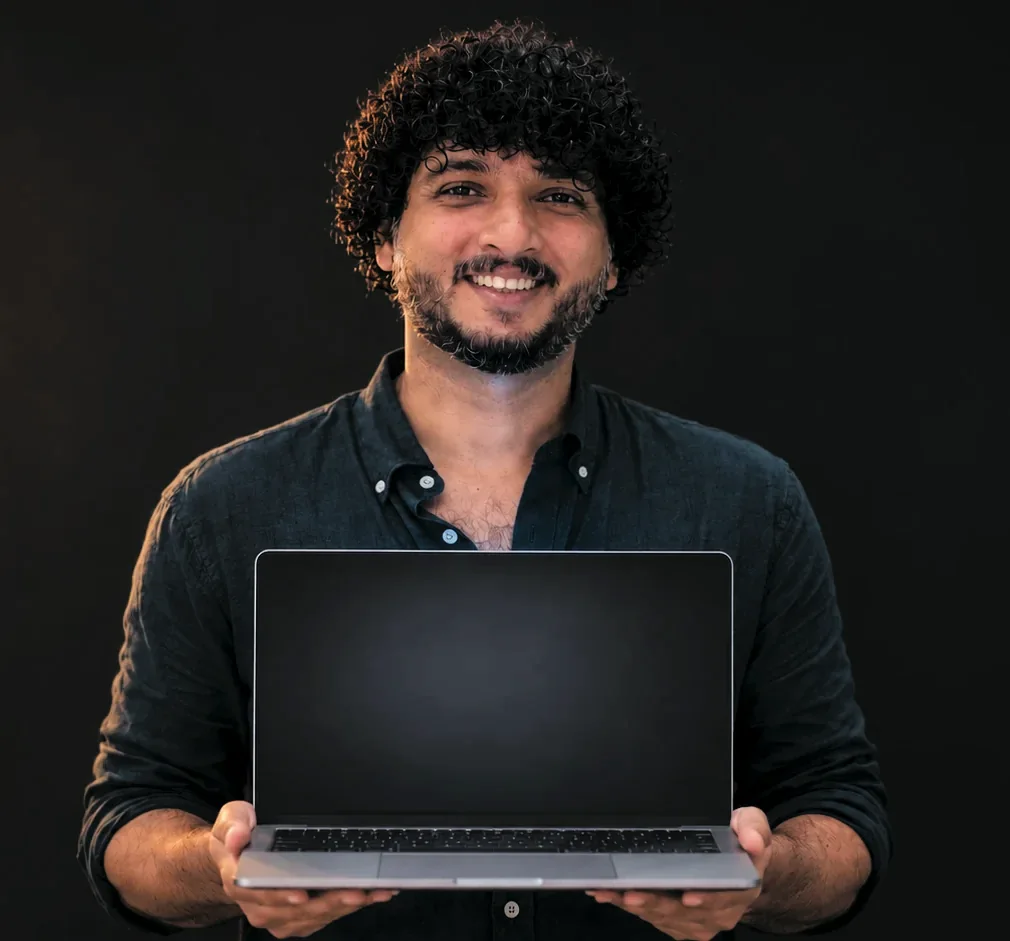
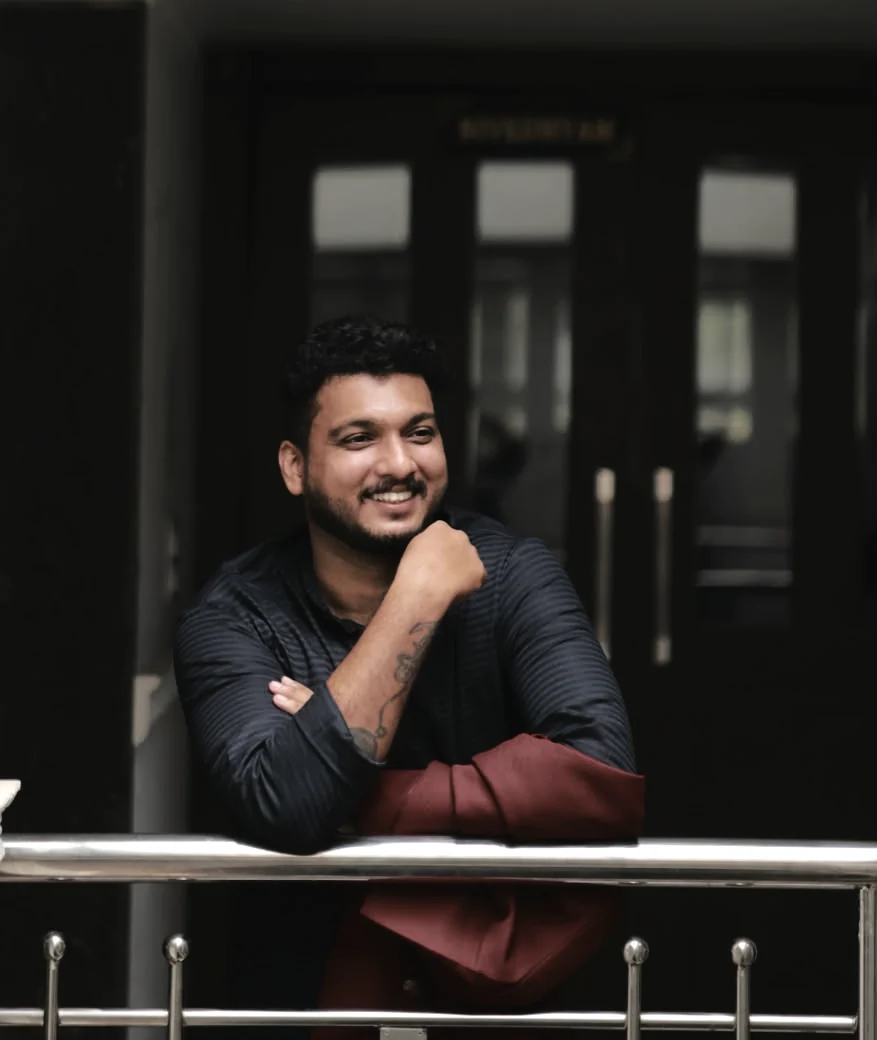
New hero photo (balcony shot) and candid photo on the Incubateer page
Hero uses a real photo, colour-graded so the dark doors sink into the
page and the red jacket is toned down. The laughing window shot sits
next to 'Why I'm building it'. Share image updated to match.

Claude-Session: https://claude.ai/code/session_01GbPnNpFcowgaRwAoicUqBo

diff --git a/styles.css b/styles.css
@@ -145,7 +145,7 @@ body::after {
   mask-image: linear-gradient(to right, transparent 0%, #000 34%), linear-gradient(to top, transparent 0%, #000 30%);
   mask-composite: intersect;
 }
-.hero__photo img { width: 100%; height: 100%; object-fit: cover; object-position: 50% 18%; will-change: transform; }
+.hero__photo img { width: 100%; height: 100%; object-fit: cover; object-position: 45% 35%; will-change: transform; }
 .hero__intro { position: absolute; inset: 0; pointer-events: none; }
 .hero__intro a { pointer-events: auto; }
 .hero__kicker { position: absolute; left: var(--gutter); top: 84px; margin: 0; font-size: 14px; line-height: 1.35; }
@@ -187,7 +187,7 @@ body::after {
     left: 0; width: auto; bottom: auto; height: 72%;
     -webkit-mask-image: linear-gradient(to top, transparent 0%, #000 40%); mask-image: linear-gradient(to top, transparent 0%, #000 40%);
   }
-  .hero__photo img { object-position: 50% 0%; }
+  .hero__photo img { object-position: 42% 30%; }
   .hero__kicker { top: 72px; }
   .hero__all { top: 76px; font-size: 16px; }
   .hero__name { bottom: calc(clamp(24px, 5vh, 48px) + 110px); font-size: 27vw; }

diff --git a/index.html b/index.html
@@ -46,7 +46,7 @@
 
     <!-- HERO: Rosa-style name with a blended portrait that moves on scroll -->
     <section class="hero" id="hero" aria-label="Intro">
-      <div class="hero__photo"><img src="assets/img/mahesh-hero.webp" alt="Mahesh Kadamkode holding an open laptop" width="1010" height="941"></div>
+      <div class="hero__photo"><img src="assets/img/mahesh-hero.webp" alt="Mahesh Kadamkode smiling, leaning on a balcony rail" width="877" height="1040"></div>
 
       <div class="hero__intro">
         <p class="hero__kicker">Selected work<br><span class="dim">and one product</span></p>

diff --git a/incubateer.html b/incubateer.html
@@ -91,7 +91,7 @@
 
     <!-- Why -->
     <section class="pi-why">
-      <div class="pi-why__photo"><img src="assets/img/mahesh.webp" alt="Mahesh Kadamkode" width="800" height="1200" loading="lazy"></div>
+      <div class="pi-why__photo"><img src="assets/img/mahesh-candid.webp" alt="Mahesh Kadamkode laughing by a window" width="900" height="1200" loading="lazy"></div>
       <div>
         <p class="eyebrow">Why I'm building it</p>
         <h2 class="about__title" data-stripes>A long shot should be <em>called a long shot.</em></h2>
